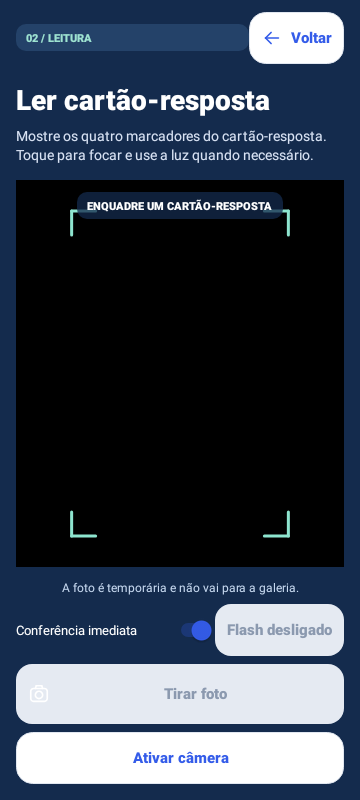
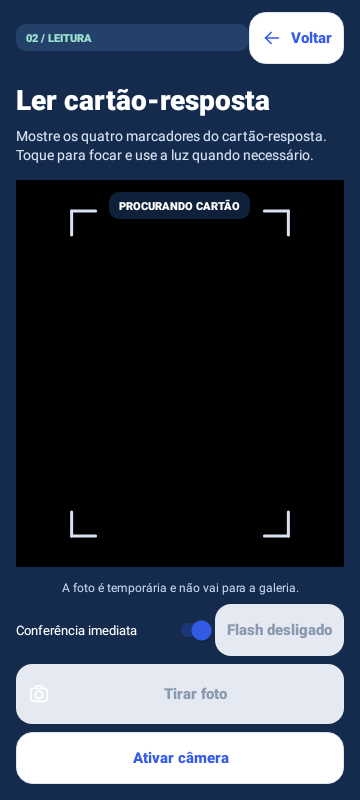
Guide optical card reading with stability feedback and verified scores

Changed region(s): [[0.1833, 0.2188, 0.825, 0.3125], [0.7333, 0.625, 0.825, 0.6875], [0.1833, 0.625, 0.275, 0.6875]]

diff --git a/app/src/main/java/br/com/cfprova/ScannerActivity.java b/app/src/main/java/br/com/cfprova/ScannerActivity.java
@@ -25,7 +25,9 @@ import java.util.concurrent.*;
 
 public class ScannerActivity extends ComponentActivity {
     private PreviewView preview;
-    private TextView hint,summary;
+    private TextView hint,summary,readingStatus;
+    private ProgressBar readingProgress;
+    private AppUi.CaptureGuide captureGuide;
     private Button shutter,retryCamera,flashButton;
     private Switch immediate;
     private Camera camera;
@@ -71,12 +73,14 @@ public class ScannerActivity extends ComponentActivity {
         root.addView(AppUi.text(this,getString(R.string.camera_title),28,Color.WHITE,true));AppUi.gap(root,8);
         hint=AppUi.text(this,getString(R.string.camera_guide),14,0xffd9e3f4,false);root.addView(hint);AppUi.gap(root,16);
         FrameLayout stage=new FrameLayout(this);stage.setBackground(AppUi.shape(this,Color.BLACK,24));stage.setClipToOutline(true);LinearLayout.LayoutParams stageSize=new LinearLayout.LayoutParams(-1,0,1);stageSize.bottomMargin=dp(12);root.addView(stage,stageSize);
-        preview=new PreviewView(this);preview.setImplementationMode(PreviewView.ImplementationMode.COMPATIBLE);preview.setScaleType(PreviewView.ScaleType.FIT_CENTER);stage.addView(preview,new FrameLayout.LayoutParams(-1,-1));stage.addView(new AppUi.CaptureGuide(this),new FrameLayout.LayoutParams(-1,-1));
-        TextView guide=AppUi.badge(this,getString(R.string.frame_label),Color.WHITE,0xc0142b4d);FrameLayout.LayoutParams guideSize=new FrameLayout.LayoutParams(-2,-2,Gravity.TOP|Gravity.CENTER_HORIZONTAL);guideSize.topMargin=dp(12);stage.addView(guide,guideSize);
+        preview=new PreviewView(this);preview.setImplementationMode(PreviewView.ImplementationMode.COMPATIBLE);preview.setScaleType(PreviewView.ScaleType.FIT_CENTER);stage.addView(preview,new FrameLayout.LayoutParams(-1,-1));captureGuide=new AppUi.CaptureGuide(this);stage.addView(captureGuide,new FrameLayout.LayoutParams(-1,-1));
+        readingStatus=AppUi.badge(this,getString(R.string.reader_searching),Color.WHITE,0xc0142b4d);TextView guide=readingStatus;FrameLayout.LayoutParams guideSize=new FrameLayout.LayoutParams(-2,-2,Gravity.TOP|Gravity.CENTER_HORIZONTAL);guideSize.topMargin=dp(12);stage.addView(guide,guideSize);
+        readingProgress=new ProgressBar(this,null,android.R.attr.progressBarStyleHorizontal);readingProgress.setMax(100);readingProgress.setProgressTintList(android.content.res.ColorStateList.valueOf(0xff8ee5cf));
+        FrameLayout.LayoutParams progressSize=new FrameLayout.LayoutParams(-1,dp(6),Gravity.BOTTOM);stage.addView(readingProgress,progressSize);resetReadingStatus();
         TextView privacy=AppUi.text(this,getString(R.string.camera_privacy),12,0xffc6d8ef,false);privacy.setGravity(Gravity.CENTER);root.addView(privacy);AppUi.gap(root,8);
         LinearLayout controls=AppUi.row(this);
         immediate=new Switch(this);immediate.setText(R.string.immediate_mode);immediate.setTextColor(Color.WHITE);immediate.setTextSize(13);immediate.setMinHeight(dp(48));immediate.setChecked(immediateEnabled);immediate.setContentDescription(getString(R.string.immediate_description));
-        immediate.setOnCheckedChangeListener((v,enabled)->{immediateEnabled=enabled;previewCycle++;consensus.reset();hint.setText(enabled?R.string.immediate_guide:R.string.camera_guide);});
+        immediate.setOnCheckedChangeListener((v,enabled)->{immediateEnabled=enabled;previewCycle++;consensus.reset();resetReadingStatus();hint.setText(enabled?R.string.immediate_guide:R.string.camera_guide);});
         controls.addView(immediate,new LinearLayout.LayoutParams(0,-2,1));
         flashButton=AppUi.button(this,getString(R.string.flash_off),false,null,this::toggleLight);flashButton.setEnabled(false);controls.addView(flashButton);root.addView(controls);AppUi.gap(root,8);
         shutter=button(root,R.string.take_photo,this::takePhoto);shutter.setMinHeight(dp(60));shutter.setEnabled(false);
@@ -121,7 +125,7 @@ public class ScannerActivity extends ComponentActivity {
     }
     private void toggleLight(){
         if(camera==null||busy||!camera.getCameraInfo().hasFlashUnit())return;
-        boolean requested=!lightOn;lightOn=requested;int cycle=++previewCycle;consensus.reset();flashButton.setText(requested?R.string.flash_on:R.string.flash_off);
+        boolean requested=!lightOn;lightOn=requested;int cycle=++previewCycle;consensus.reset();flashButton.setText(requested?R.string.flash_on:R.string.flash_off);resetReadingStatus();
         ListenableFuture<Void> change=camera.getCameraControl().enableTorch(requested);
         change.addListener(()->{if(cycle!=previewCycle||isFinishing())return;try{change.get();}catch(Exception e){lightOn=false;flashButton.setText(R.string.flash_off);hint.setText(R.string.flash_error);}},ContextCompat.getMainExecutor(this));
     }
@@ -133,20 +137,29 @@ public class ScannerActivity extends ComponentActivity {
         try{
             long now=SystemClock.elapsedRealtime();if(!active||busy||reviewing||!immediateEnabled||now-lastAnalysis<300)return;lastAnalysis=now;int cycle=previewCycle;
             ImageProxy.PlaneProxy plane=image.getPlanes()[0];LumaFrame frame=LumaFrame.from(plane.getBuffer(),image.getWidth(),image.getHeight(),plane.getRowStride(),plane.getPixelStride(),image.getImageInfo().getRotationDegrees(),1280);
-            LiveReader.Reading reading=new LiveReader().read(frame.pixels,frame.width,frame.height,key.length);int[] stable=consensus.accept(reading.answers,now);
+            LiveReader.Reading reading=new LiveReader().read(frame.pixels,frame.width,frame.height,key.length);int[] stable=consensus.accept(reading.answers,now);int progress=consensus.progress();
             runOnUiThread(()->{
                 if(!active||busy||reviewing||!immediateEnabled||cycle!=previewCycle||isFinishing())return;
-                if(reading.answers==null)hint.setText(reading.hint);
-                else hint.setText(getString(R.string.immediate_result,Grading.correct(key,reading.answers),key.length,Grading.grade(key,reading.answers)));
+                readingProgress.setProgress(progress);
+                boolean detected=reading.answers!=null;
+                captureGuide.setReadingState(detected?stable!=null?2:1:0);
+                readingStatus.setText(!detected?R.string.reader_searching:stable!=null?R.string.reader_ready:R.string.reader_validating);
+                if(!detected)hint.setText(reading.hint);
+                else hint.setText(R.string.reader_hold);
                 if(stable!=null)takePhoto();
             });
         }catch(RuntimeException e){consensus.reset();}
         finally{image.close();}
     }
+    private void resetReadingStatus(){
+        if(readingProgress!=null)readingProgress.setProgress(0);
+        if(captureGuide!=null)captureGuide.setReadingState(0);
+        if(readingStatus!=null)readingStatus.setText(immediateEnabled?R.string.reader_searching:R.string.reader_manual);
+    }
     private void cameraError(){stopLight();consensus.reset();previewCycle++;if(provider!=null)provider.unbindAll();camera=null;capture=null;shutter.setEnabled(false);flashButton.setEnabled(false);retryCamera.setVisibility(View.VISIBLE);hint.setText(R.string.camera_error);}
     private void takePhoto(){
         if(!active||busy||capture==null)return;
-        busy=true;previewCycle++;consensus.reset();shutter.setEnabled(false);flashButton.setEnabled(false);hint.setText(R.string.processing_photo);final int token=photo.begin();
+        busy=true;previewCycle++;consensus.reset();shutter.setEnabled(false);flashButton.setEnabled(false);hint.setText(R.string.processing_photo);readingStatus.setText(R.string.reader_checking_photo);final int token=photo.begin();
         // The in-memory callback has no OutputFileOptions, MediaStore or file URI.
         capture.takePicture(worker,new ImageCapture.OnImageCapturedCallback(){
             @Override public void onCaptureSuccess(ImageProxy image){
@@ -186,7 +199,7 @@ public class ScannerActivity extends ComponentActivity {
             return new LiveReader().read(luma,w,h,key.length);
         }finally{if(small!=image)small.recycle();}
     }
-    private void captureFailed(int token){runOnUiThread(()->{if(!active||!photo.isCurrent(token)||isFinishing())return;busy=false;consensus.reset();immediateEnabled=false;immediate.setChecked(false);shutter.setEnabled(capture!=null);flashButton.setEnabled(camera!=null&&camera.getCameraInfo().hasFlashUnit());hint.setText(R.string.photo_error);});}
+    private void captureFailed(int token){runOnUiThread(()->{if(!active||!photo.isCurrent(token)||isFinishing())return;busy=false;consensus.reset();immediateEnabled=false;resetReadingStatus();immediate.setChecked(false);shutter.setEnabled(capture!=null);flashButton.setEnabled(camera!=null&&camera.getCameraInfo().hasFlashUnit());hint.setText(R.string.photo_error);});}
     private void reviewScreen(String readingHint){
         LinearLayout root=screen();root.addView(AppUi.badge(this,"03 / CONFERÊNCIA",AppUi.BLUE,0xffe8eeff));AppUi.gap(root,12);
         root.addView(AppUi.text(this,getString(R.string.review_title),27,AppUi.INK,true));if(exam!=null){AppUi.gap(root,4);root.addView(AppUi.text(this,exam,14,AppUi.MUTED,false));}AppUi.gap(root,14);

diff --git a/app/src/main/java/br/com/cfprova/AppUi.java b/app/src/main/java/br/com/cfprova/AppUi.java
@@ -54,8 +54,9 @@ public final class AppUi {
         @Override protected void onDraw(Canvas c){float cx=getWidth()/2f,cy=getHeight()/2f,r=Math.min(getWidth(),getHeight())/2f-dp(getContext(),10);paint.setStyle(Paint.Style.STROKE);paint.setStrokeWidth(dp(getContext(),10));paint.setStrokeCap(Paint.Cap.ROUND);paint.setColor(0xffe8edf8);c.drawCircle(cx,cy,r,paint);paint.setColor(BLUE);c.drawArc(cx-r,cy-r,cx+r,cy+r,-90,grade*36,false,paint);paint.setStyle(Paint.Style.FILL);paint.setTextAlign(Paint.Align.CENTER);paint.setTypeface(font);paint.setTextSize(dp(getContext(),42));paint.setColor(INK);c.drawText(gradeLabel,cx,cy+dp(getContext(),4),paint);paint.setTextSize(dp(getContext(),10));paint.setColor(MUTED);c.drawText("NOTA / 10",cx,cy+dp(getContext(),25),paint);}
     }
     public static final class CaptureGuide extends View {
-        private final Paint p=new Paint(3);
+        private final Paint p=new Paint(3);private int readingState;
+        public void setReadingState(int state){readingState=state;invalidate();}
         public CaptureGuide(Context c){super(c);setImportantForAccessibility(IMPORTANT_FOR_ACCESSIBILITY_NO);setClickable(false);}
-        @Override protected void onDraw(Canvas c){float h=Math.min(getHeight()*.84f,getWidth()*1.22f),w=h*2/3,left=(getWidth()-w)/2,top=(getHeight()-h)/2,k=dp(getContext(),24);p.setStyle(Paint.Style.STROKE);p.setStrokeWidth(dp(getContext(),3));p.setStrokeCap(Paint.Cap.ROUND);p.setColor(0xff8ee5cf);for(int i=0;i<4;i++){float x=i%2==0?left:left+w,y=i<2?top:top+h;c.drawLine(x,y,x+(i%2==0?k:-k),y,p);c.drawLine(x,y,x,y+(i<2?k:-k),p);}}
+        @Override protected void onDraw(Canvas c){float h=Math.min(getHeight()*.84f,getWidth()*1.22f),w=h*2/3,left=(getWidth()-w)/2,top=(getHeight()-h)/2,k=dp(getContext(),24);p.setStyle(Paint.Style.STROKE);p.setStrokeWidth(dp(getContext(),3));p.setStrokeCap(Paint.Cap.ROUND);p.setColor(readingState==2?0xff8ee5cf:readingState==1?0xffffcc70:0xffd9e3f4);for(int i=0;i<4;i++){float x=i%2==0?left:left+w,y=i<2?top:top+h;c.drawLine(x,y,x+(i%2==0?k:-k),y,p);c.drawLine(x,y,x,y+(i<2?k:-k),p);}}
     }
 }

diff --git a/app/src/test/java/br/com/cfprova/ReadingConsensusTest.java b/app/src/test/java/br/com/cfprova/ReadingConsensusTest.java
@@ -3,6 +3,16 @@ import org.junit.Test;
 import static org.junit.Assert.*;
 
 public class ReadingConsensusTest {
+    @Test public void progressRequiresTimeAndMatchingFrames(){
+        ReadingConsensus c=new ReadingConsensus();int[] a={0,1,2};assertEquals(0,c.progress());
+        c.accept(a,0);c.accept(a,350);assertEquals(50,c.progress());
+        assertArrayEquals(a,c.accept(a,700));assertEquals(100,c.progress());
+        c.accept(null,1000);assertEquals(0,c.progress());
+        c.accept(a,1100);c.accept(a,1800);assertTrue(c.progress()<100);
+        c.accept(new int[]{2,1,0},2100);assertEquals(0,c.progress());
+        c.reset();assertEquals(0,c.progress());
+    }
+
     @Test public void requiresThreeMatchingFramesAndTime(){ReadingConsensus c=new ReadingConsensus();int[] a={0,1,2};assertNull(c.accept(a,0));assertNull(c.accept(a,350));assertArrayEquals(a,c.accept(a,700));}
     @Test public void fastFramesCannotTriggerPrematureCapture(){ReadingConsensus c=new ReadingConsensus();int[] a={0,1,2};c.accept(a,0);c.accept(a,30);assertNull(c.accept(a,60));}
     @Test public void failureAndDifferentAnswersRestartConsensus(){ReadingConsensus c=new ReadingConsensus();int[] a={0,1,2};c.accept(a,0);c.accept(a,350);assertNull(c.accept(null,700));assertNull(c.accept(a,1050));assertNull(c.accept(new int[]{1,1,2},1400));assertNull(c.accept(a,1750));}

diff --git a/app/src/main/java/br/com/cfprova/ReadingConsensus.java b/app/src/main/java/br/com/cfprova/ReadingConsensus.java
@@ -12,5 +12,10 @@ public final class ReadingConsensus {
         if(previous==null||!Arrays.equals(previous,answers)||time<last||time-last>1500){previous=answers.clone();frames=1;first=time;}else frames++;
         last=time;return frames>=3&&time-first>=700?previous.clone():null;
     }
+    /** Progress is capped until both the frame count and stability time are satisfied. */
+    public synchronized int progress(){
+        if(previous==null)return 0;
+        return (int)Math.min(100,Math.min(frames*100L/3,Math.max(0,last-first)*100/700));
+    }
     public synchronized void reset(){previous=null;frames=0;first=0;last=0;}
 }

diff --git a/README.md b/README.md
@@ -17,7 +17,7 @@ A interface mantém cartões de etapas, botões de ação destacados e acesso fi
 3. Imprima em A4, a 100%. O aluno deve preencher uma bolha inteira por questão com caneta escura.
 4. Toque em **Ler cartão-resposta**, permita a câmera e enquadre um cartão com os quatro marcadores visíveis. O leitor procura o cartão na imagem, sem exigir que ele fique no centro ou alinhado aos cantos da foto. Pode reconhecer o cartão girado; fotografar de frente, sem dobrar a folha, continua dando mais nitidez.
 5. Se precisar, toque em **Flash desligado** para ligar a luz contínua do flash. Ela ilumina a prévia e a foto. Toque em **Flash ligado** para desligar, inclusive se houver reflexos. Aparelhos sem esse recurso mostram **Sem flash**.
-6. A opção **Conferência imediata** começa ligada. Mantenha o celular firme: depois de pelo menos três quadros concordarem por cerca de 0,7 segundo, o app tira a foto temporária e abre a conferência automaticamente. A prévia já informa acertos e nota. O tempo total depende de foco, luz e aparelho.
+6. A opção **Conferência imediata** começa ligada. Mantenha o celular firme: depois de pelo menos três quadros concordarem por cerca de 0,7 segundo, o app tira a foto temporária e abre a conferência automaticamente. A prévia indica a procura do cartão e o progresso da validação; acertos e nota aparecem depois da releitura da foto. O tempo total depende de foco, luz e aparelho.
 7. Para captura manual, desligue **Conferência imediata** e toque em **Tirar foto**. Em aparelhos que não suportam os três fluxos simultâneos da câmera, o app explica a limitação e mantém a captura por botão.
 8. A foto capturada é lida novamente, independentemente da prévia. Se não houver confiança, o app explica o motivo e não atribui nota usando respostas antigas. Verifique o modelo, aproxime, ajuste foco/luz e refaça.
 9. Confira a imagem ampliável e as respostas. Ajustes manuais atualizam acertos e nota imediatamente. **Refazer foto** descarta a imagem anterior; **Concluir conferência** descarta a imagem e abre o resultado final; **Sair e descartar** cancela.
@@ -73,3 +73,9 @@ O impresso contém **somente a grade de respostas** — números e alternativas 
 [Baixar Word de 20 questões](modelos/cartao-20-questoes.docx) · [Baixar PDF de 20 questões](modelos/cartao-20-questoes.pdf). Para outra quantidade, gere pelo app (5 a 40). O Word mantém o cartão como imagem com proporções preservadas, posicionado em relação à página; não recorte nem distorça os marcadores, código ou bolhas.
 
 As letras ficaram maiores e o contorno das bolhas um pouco mais forte. As posições ópticas continuam iguais às do formato v2, portanto cartões v2 já impressos continuam compatíveis. Imprima em A4 a 100% e fotografe um cartão por vez, com todos os marcadores visíveis. A identificação do aluno deve ser controlada separadamente pelo professor. O app não tem contas, histórico de alunos, pesos individuais ou exportação de notas.
+
+## Conferência guiada (0.6.2)
+
+O modelo continua próprio, sem identificação e no canto inferior direito da A4. A experiência de apontar e conferir usa leitura óptica de marcações: a câmera mostra **Procurando cartão**, **Validando marcações**, **Leitura estável** e **Conferindo foto**. A guia fica amarela durante a validação e verde quando as leituras concordam. Uma barra acompanha a estabilidade; só chega a 100% com pelo menos três quadros concordantes durante 0,7 segundo. Perda de leitura ou alteração das respostas reinicia o progresso.
+
+A nota não é apresentada a partir de um único quadro da prévia. A captura automática é relida para mostrar acertos e nota na conferência. Flash e captura manual continuam disponíveis, e a foto permanece só na memória. O fluxo é inspirado na referência de uso solicitada; não reproduz tecnologia proprietária nem lê cartões oficiais CAEd, SEAMA ou SEDIPI.
